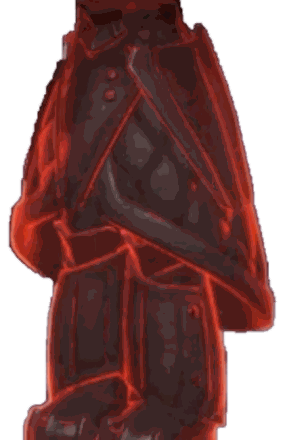
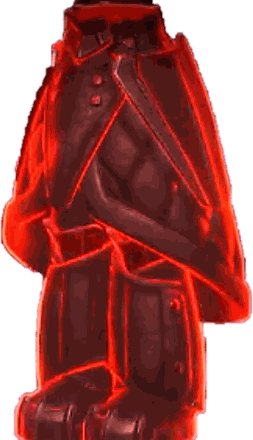
T12 déblocage : Cadence du Tireur détourée en HD

diff --git a/index.html b/index.html
@@ -140,6 +140,6 @@
   <div hidden><div id="gearLeft"></div><div id="gearRight"></div></div>
   <dialog id="gearDialog"><form method="dialog"><button class="dialog-close" value="cancel" aria-label="Fermer">×</button><p class="eyebrow" id="dialogType"></p><h2 id="dialogTitle"></h2><p class="profile-dialog-note">Renseigne uniquement l’état actuel de ton Chef.</p><div class="dialog-compare"><label class="current-setting"><small>ÉQUIPEMENT ACTUEL</small><span class="gear-preview" id="gearFromPreview"></span><select id="gearFrom"></select></label><span class="dialog-arrow">→</span><label class="target-setting"><small>OBJECTIF</small><span class="gear-preview target" id="gearToPreview"></span><select id="gearTo"></select></label></div><h3>3 talismans actuels</h3><div id="charmInputs" class="charm-inputs"></div><button class="primary" value="save" id="saveGear">Appliquer</button></form></dialog>
   <dialog id="levelPicker"><form method="dialog"><button class="dialog-close" value="cancel" aria-label="Fermer">×</button><p class="eyebrow" id="pickerEyebrow">NIVEAU</p><h2 id="pickerTitle">Choisir un niveau</h2><div class="level-picker-grid" id="levelPickerGrid"></div></form></dialog>
-      <script src="src/data.js?v=20261014-forge"></script><script src="src/chief-gear-sublevels.js?v=20261014-pub"></script><script src="src/app.js?v=20261014-t12"></script><script src="src/t11.js?v=20261014-nosum"></script><script src="src/t12.js?v=20261014-art"></script><script src="src/tooltip.js?v=20261014-t12"></script><script src="src/ads.js?v=20261014-t12"></script>
+      <script src="src/data.js?v=20261014-forge"></script><script src="src/chief-gear-sublevels.js?v=20261014-pub"></script><script src="src/app.js?v=20261014-t12"></script><script src="src/t11.js?v=20261014-nosum"></script><script src="src/t12.js?v=20261014-art2"></script><script src="src/tooltip.js?v=20261014-t12"></script><script src="src/ads.js?v=20261014-t12"></script>
 </body>
 </html>

diff --git a/src/t12.js b/src/t12.js
@@ -3,7 +3,7 @@
 (()=>{
 const T12=window.COMPANION_DATA.t12;
 const TROOPS=Object.keys(T12.units);
-const ICON=(troop,id)=>`assets/visuals/t12/icons/${troop}-${id}.png?v=20261014b`;
+const ICON=(troop,id)=>`assets/visuals/t12/icons/${troop}-${id}.png?v=20261014c`;
 
 /* ---------- Structure des deux vues (repère 1000 × hauteur) ---------- */
 const COLS=[114,371,628,884];
@@ -108,7 +108,7 @@ function renderTree(){
 }
 
 /* ---------- Déblocage : écran de forge du jeu (rendu 3D, rangée des 5 pièces, détails de la pièce choisie) ---------- */
-const RENDER=(troop,id)=>`assets/visuals/t12/pieces/${troop}-${id}.png?v=20261014b`;
+const RENDER=(troop,id)=>`assets/visuals/t12/pieces/${troop}-${id}.png?v=20261014c`;
 const TROOP_NOUN={infantry:'Infanterie',lancer:'Lancier',marksman:'Tireur'};
 const RES=[
   ['steel','Acier','assets/visuals/t11/steel.png'],

diff --git a/tools/import-t12-pieces.py b/tools/import-t12-pieces.py
@@ -20,6 +20,7 @@ FILES = {
     'marksman-p1': 'Voile exalté rouge lumineux-1.png',
     'marksman-p2': 'Manteau exalté cramoisi, pièce d’armure-2.png',
     'marksman-p3': 'Plastron de guerre rouge exalté-3.png',
+    'marksman-p4': 'Cadence exaltée (détourée HD).png',  # détourée depuis IMG_1055, agrandie et teintée
     'marksman-p5': 'Fusil steampunk cramoisi orné.png',
 }
 for name, file in FILES.items():
